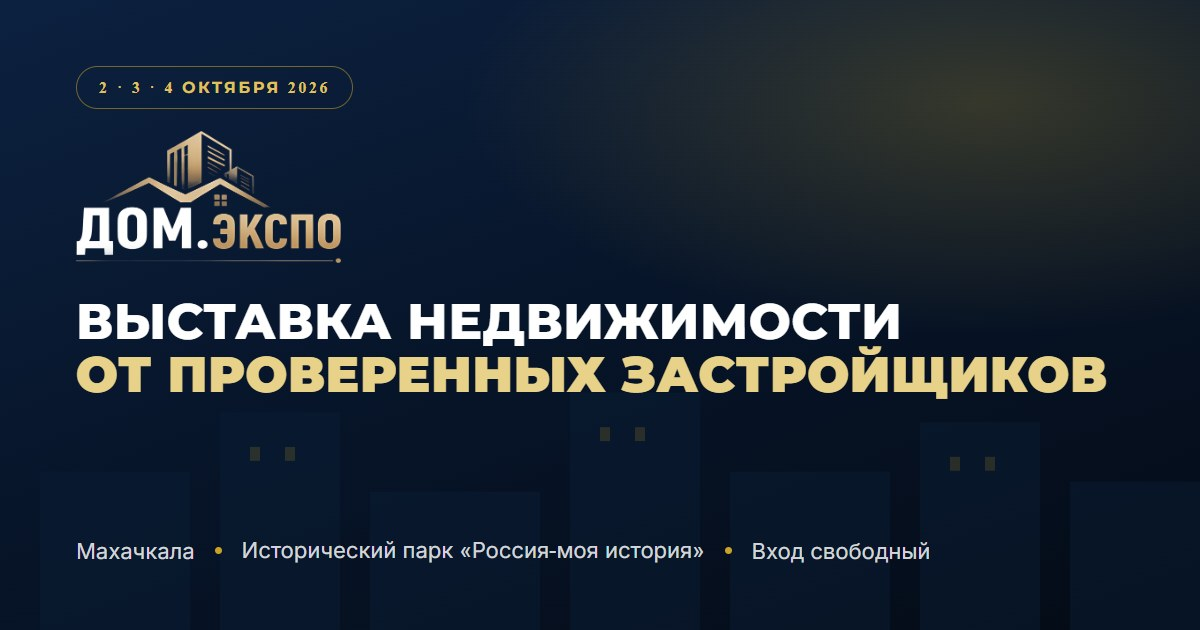
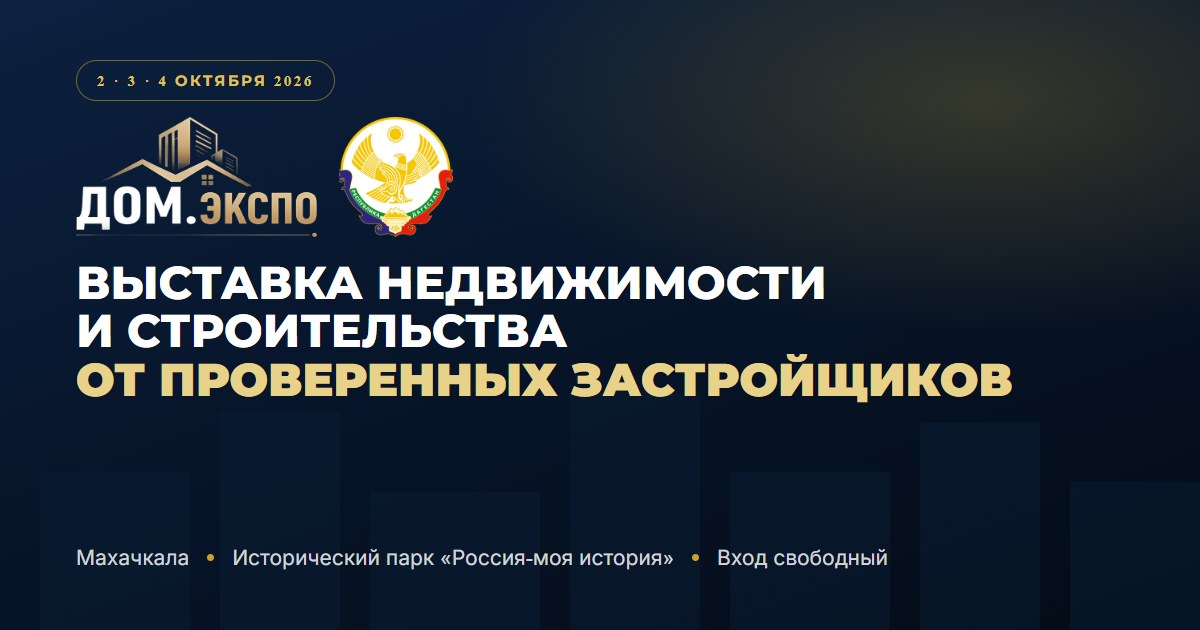
Правки клиента по голосовым: убрал билеты, добавил герб и «строительство»
Голосовое 1: вход свободный, билетов нет. Кнопки «Получить билет»
заменены на «Как добраться» (шапка, герой, плавающая), карточка билета
стала карточкой дат с «Построить маршрут», финальная секция без формы
регистрации, только маршрут. Убраны упоминания билета из шагов, FAQ,
схемы зала и юр-документов.

Голосовое 2: «в одном зале» -> «на одной площадке» везде; заголовок
«Выставка недвижимости» -> «Выставка недвижимости и строительства»
(+ title/description/og); под заголовком добавлен герб Дагестана
(вырезан с баннера) в плашку Минстроя. og-картинка перерисована.

diff --git a/index.html b/index.html
@@ -3,14 +3,14 @@
 <head>
 <meta charset="utf-8">
 <meta name="viewport" content="width=device-width, initial-scale=1">
-<title>ДОМ.ЭКСПО 2026 - выставка недвижимости в Махачкале, 2-4 октября</title>
-<meta name="description" content="Выставка новостроек от проверенных застройщиков Дагестана. 2, 3, 4 октября 2026, Исторический парк «Россия-моя история». Вход свободный, ипотечные консультации, спецусловия от застройщиков.">
+<title>ДОМ.ЭКСПО 2026 - выставка недвижимости и строительства в Махачкале, 2-4 октября</title>
+<meta name="description" content="Выставка недвижимости и строительства от проверенных застройщиков Дагестана. 2, 3, 4 октября 2026, Исторический парк «Россия-моя история». Вход свободный, ипотечные консультации, спецусловия от застройщиков.">
 <meta name="theme-color" content="#040B16">
 <link rel="icon" type="image/png" href="assets/logo/favicon.png">
 <link rel="apple-touch-icon" href="assets/logo/favicon.png">
 <meta property="og:type" content="website">
 <meta property="og:url" content="https://domexpo05.ru/">
-<meta property="og:title" content="ДОМ.ЭКСПО 2026 - выставка недвижимости в Махачкале">
+<meta property="og:title" content="ДОМ.ЭКСПО 2026 - выставка недвижимости и строительства в Махачкале">
 <meta property="og:description" content="2, 3, 4 октября 2026. Исторический парк «Россия-моя история», Махачкала. Вход свободный.">
 <meta property="og:image" content="assets/img/og.jpg">
 
@@ -136,7 +136,8 @@ h1,h2,h3,h4{font-family:var(--head);margin:0;letter-spacing:.01em}
 .hero-meta .hm-place{flex:1 1 100%;margin-top:2px}
 .dot{width:5px;height:5px;border-radius:50%;background:var(--gold-500);flex:0 0 auto}
 .hero-cta{display:flex;flex-wrap:wrap;gap:14px;margin:30px 0 0}
-.ministry{display:flex;align-items:center;gap:14px;margin:30px 0 0;padding:14px 20px;max-width:560px;background:rgba(10,24,40,.55);border:1px solid rgba(232,210,138,.18);border-left:3px solid var(--gold-500);border-radius:10px;font-size:12.5px;line-height:1.5;color:rgba(255,255,255,.7)}
+.ministry{display:flex;align-items:center;gap:16px;margin:30px 0 0;padding:14px 20px;max-width:580px;background:rgba(10,24,40,.55);border:1px solid rgba(232,210,138,.18);border-left:3px solid var(--gold-500);border-radius:10px;font-size:12.5px;line-height:1.5;color:rgba(255,255,255,.7)}
+.ministry-gerb{flex:0 0 auto;width:54px;height:auto;filter:drop-shadow(0 4px 10px rgba(0,0,0,.4))}
 .scroll-cue{position:absolute;right:calc(var(--pad) / 2);bottom:26px;z-index:3;display:flex;flex-direction:column;align-items:center;gap:8px;font-size:10.5px;letter-spacing:.22em;text-transform:uppercase;color:rgba(255,255,255,.42);writing-mode:vertical-rl}
 @media (max-width:1079px),(max-height:760px){.scroll-cue{display:none}}
 .scroll-cue i{width:1px;height:42px;background:linear-gradient(180deg,var(--gold-500),transparent);animation:cue 2s ease-in-out infinite}
@@ -503,7 +504,7 @@ dialog.doc::backdrop{background:rgba(4,11,22,.78);backdrop-filter:blur(6px)}
     </nav>
     <a href="tel:+79332091283" class="hdr-tel num">8 933 209 12 83</a>
     <button type="button" class="burger" id="burger" aria-label="Меню" aria-expanded="false" aria-controls="mnav"><span></span><span></span><span></span></button>
-    <a href="#ticket" class="btn btn-gold">Получить билет</a>
+    <a href="#venue" class="btn btn-gold">Как добраться</a>
   </div>
   <nav class="mnav" id="mnav">
     <a href="#about">О выставке</a>
@@ -532,24 +533,24 @@ dialog.doc::backdrop{background:rgba(4,11,22,.78);backdrop-filter:blur(6px)}
     <div class="hero-grid">
       <div class="hero-anim">
         <img class="hero-logo" src="assets/logo/logo.png" alt="ДОМ.ЭКСПО - выставка недвижимости" width="1200" height="598">
-        <h1 class="h1"><span>Выставка недвижимости</span><span class="l2">от проверенных застройщиков</span></h1>
-        <p class="hero-lead lead">Все застройщики Дагестана в одном зале. Три дня, чтобы выбрать квартиру без сотни звонков и поездок по офисам продаж.</p>
+        <h1 class="h1"><span>Выставка недвижимости и строительства</span><span class="l2">от проверенных застройщиков</span></h1>
+        <p class="hero-lead lead">Все застройщики Дагестана на одной площадке. Три дня, чтобы выбрать квартиру без сотни звонков и поездок по офисам продаж.</p>
         <div class="hero-meta">
           <b class="num">2, 3, 4 октября 2026</b><span class="dot"></span>
           <span>Махачкала</span>
           <span class="hm-place">Исторический парк «Россия-моя история», пр. Имама Шамиля, 31г</span>
         </div>
         <div class="hero-cta">
-          <a href="#ticket" class="btn btn-gold">Получить билет бесплатно</a>
+          <a href="#venue" class="btn btn-gold">Как добраться</a>
           <a href="#developers" class="btn btn-ghost">Стать участником</a>
         </div>
-        <div class="ministry">При поддержке Министерства строительства, архитектуры и жилищно-коммунального хозяйства Республики Дагестан</div>
+        <div class="ministry"><img class="ministry-gerb" src="assets/img/gerb.png" alt="Герб Республики Дагестан" width="571" height="600"><span>При поддержке Министерства строительства, архитектуры и жилищно-коммунального хозяйства Республики Дагестан</span></div>
       </div>
 
-      <aside class="tkt tkt-anim tilt" aria-label="Билет на выставку">
+      <aside class="tkt tkt-anim tilt" aria-label="Даты и место выставки">
         <div class="tkt-top">
           <div>
-            <div class="tkt-label">Пригласительный билет</div>
+            <div class="tkt-label">Даты выставки</div>
             <div class="tkt-date num">2<em>·</em>3<em>·</em>4</div>
             <div class="tkt-month">октября 2026</div>
           </div>
@@ -564,8 +565,8 @@ dialog.doc::backdrop{background:rgba(4,11,22,.78);backdrop-filter:blur(6px)}
           <div class="cd-box"><b data-cd="m">00</b><small>минут</small></div>
           <div class="cd-box"><b data-cd="s">00</b><small>секунд</small></div>
         </div>
-        <a href="#ticket" class="btn btn-gold">Забронировать билет</a>
-        <p class="tkt-fine">Билет бесплатный. Регистрация ускоряет проход.</p>
+        <a href="https://yandex.ru/maps/?text=Махачкала,%20проспект%20Имама%20Шамиля,%2031г" target="_blank" rel="noopener" class="btn btn-gold">Построить маршрут</a>
+        <p class="tkt-fine">Вход свободный для всех посетителей.</p>
       </aside>
     </div>
   </div>
@@ -603,8 +604,8 @@ dialog.doc::backdrop{background:rgba(4,11,22,.78);backdrop-filter:blur(6px)}
         <h2 class="h2">Зачем идти<br>на ДОМ.ЭКСПО</h2>
         <p class="lead" style="margin:24px 0 18px">Обычно выбор квартиры выглядит так: неделя обзвонов, десяток офисов продаж в разных концах города и ощущение, что везде говорят разное.</p>
         <p class="lead" style="margin:0 0 18px">На ДОМ.ЭКСПО застройщики приезжают к вам сами. За один визит вы сравниваете планировки и цены, задаёте неудобные вопросы про сроки сдачи и смотрите условия ипотеки от банков-партнёров.</p>
-        <div class="about-quote">Три дня, один зал, все ключевые застройщики республики</div>
-        <div style="margin-top:32px"><a href="#ticket" class="btn btn-gold">Получить билет бесплатно</a></div>
+        <div class="about-quote">Три дня, одна площадка, все ключевые застройщики республики</div>
+        <div style="margin-top:32px"><a href="#venue" class="btn btn-gold">Как добраться</a></div>
       </div>
       <div class="rv">
         <div class="frame"><span>Здесь встанет фото зала выставки: гости у макетов и планировок</span></div>
@@ -623,8 +624,8 @@ dialog.doc::backdrop{background:rgba(4,11,22,.78);backdrop-filter:blur(6px)}
     <div class="steps rv-stagger">
       <article class="step tilt">
         <div class="step-n">01</div>
-        <h3 class="h3">Получите билет</h3>
-        <p>Оставьте имя и телефон - пришлём билет и напомним за день до открытия. Бесплатно.</p>
+        <h3 class="h3">Просто приходите</h3>
+        <p>Вход свободный, билет и регистрация не нужны. Возьмите паспорт, если планируете подавать заявку на ипотеку.</p>
       </article>
       <article class="step tilt">
         <div class="step-n">02</div>
@@ -801,7 +802,7 @@ dialog.doc::backdrop{background:rgba(4,11,22,.78);backdrop-filter:blur(6px)}
 
           <g class="zone" data-zone="1">
             <rect x="300" y="418" width="200" height="72" rx="8" fill="rgba(201,162,39,.10)" stroke="rgba(201,162,39,.45)" stroke-width="1.5"/>
-            <text x="400" y="460" text-anchor="middle">Вход и регистрация</text>
+            <text x="400" y="460" text-anchor="middle">Вход на выставку</text>
           </g>
           <g class="zone" data-zone="2">
             <rect x="52" y="120" width="470" height="260" rx="8" fill="rgba(255,255,255,.045)" stroke="rgba(255,255,255,.16)" stroke-width="1.5"/>
@@ -835,7 +836,7 @@ dialog.doc::backdrop{background:rgba(4,11,22,.78);backdrop-filter:blur(6px)}
       </div>
 
       <ul class="legend" id="legend">
-        <li data-zone="1"><b>1</b><span>Вход и регистрация - быстрый проход по билету</span></li>
+        <li data-zone="1"><b>1</b><span>Вход на выставку - свободный, без билетов и очередей</span></li>
         <li data-zone="2"><b>2</b><span>Стенды застройщиков - макеты, планировки, цены</span></li>
         <li data-zone="3"><b>3</b><span>Лекторий - программа выступлений все три дня</span></li>
         <li data-zone="4"><b>4</b><span>Зона ипотеки - менеджеры банков-партнёров</span></li>
@@ -950,8 +951,8 @@ dialog.doc::backdrop{background:rgba(4,11,22,.78);backdrop-filter:blur(6px)}
       <h2 class="h2">Частые вопросы</h2>
     </div>
     <div class="faq rv-stagger">
-      <details><summary>Вход платный?<span class="plus"></span></summary><p>Нет, для посетителей вход свободный. Билет нужен, чтобы пройти быстрее и получить программу.</p></details>
-      <details><summary>Нужно ли регистрироваться заранее?<span class="plus"></span></summary><p>Не обязательно, но с регистрацией вы попадаете внутрь без очереди и получаете напоминание накануне.</p></details>
+      <details><summary>Вход платный?<span class="plus"></span></summary><p>Нет, для посетителей вход свободный все три дня, с 10:00 до 19:00.</p></details>
+      <details><summary>Нужно ли регистрироваться заранее?<span class="plus"></span></summary><p>Нет, регистрация и билет не нужны. Просто приходите в удобный день, вход свободный для всех.</p></details>
       <details><summary>Можно ли прийти с детьми?<span class="plus"></span></summary><p>Да, площадка подходит для семейного визита.</p></details>
       <details><summary>Можно ли оформить ипотеку прямо на выставке?<span class="plus"></span></summary><p>На стендах работают ипотечные менеджеры банков-партнёров: можно подать заявку и получить предварительное решение. Условия банков не являются публичной офертой.</p></details>
       <details><summary>Можно ли забронировать квартиру на выставке?<span class="plus"></span></summary><p>Да, у большинства застройщиков есть спецусловия бронирования для гостей выставки.</p></details>
@@ -966,28 +967,22 @@ dialog.doc::backdrop{background:rgba(4,11,22,.78);backdrop-filter:blur(6px)}
   <div class="wrap">
     <div class="final-in">
       <div class="rv">
-        <p class="eyebrow">Регистрация</p>
-        <h2 class="h2">Получите билет<br>на ДОМ.ЭКСПО</h2>
-        <p class="lead" style="margin:22px 0 0;max-width:480px">Вход свободный. Пришлём билет и напомним за день до открытия.</p>
-        <div class="final-when"><span class="num">2, 3, 4 октября 2026</span><span style="color:rgba(255,255,255,.3)">|</span><span>Махачкала, пр. Имама Шамиля, 31г</span></div>
+        <p class="eyebrow">Вход свободный</p>
+        <h2 class="h2">Приходите<br>на ДОМ.ЭКСПО</h2>
+        <p class="lead" style="margin:22px 0 0;max-width:480px">Билет и регистрация не нужны. Три дня, одна площадка, все застройщики Дагестана. Просто приходите в удобный день.</p>
+        <div class="final-when"><span class="num">2, 3, 4 октября 2026</span><span style="color:rgba(255,255,255,.3)">|</span><span>10:00 - 19:00</span></div>
       </div>
       <div class="card-form rv">
-        <div class="done hidden" id="tkDone">
-          <svg width="54" height="54" viewBox="0 0 52 52" fill="none" style="margin:0 auto"><circle cx="26" cy="26" r="24" stroke="#D4AF37" stroke-width="2"/><path d="m16 26.5 7 7 14-15" stroke="#D4AF37" stroke-width="2.4" stroke-linecap="round" stroke-linejoin="round"/></svg>
-          <h3>Готово</h3>
-          <p>Билет отправлен на ваш номер, ждём вас 2 октября.</p>
-        </div>
-        <form id="tkForm" novalidate>
-          <h3>Ваш билет</h3>
-          <p class="hint">Два поля - и вы в списке гостей</p>
-          <div class="fields">
-            <label class="field"><span>Имя</span><input type="text" name="name" placeholder="Как к вам обращаться" autocomplete="name"></label>
-            <label class="field"><span>Телефон</span><input type="tel" name="phone" inputmode="tel" class="num" placeholder="+7 (___) ___-__-__" autocomplete="tel"></label>
+        <div class="tkt-top" style="margin-bottom:20px">
+          <div>
+            <div class="tkt-label">Место проведения</div>
+            <h3 style="margin:10px 0 0">Россия - моя история</h3>
           </div>
-          <label class="consent"><input type="checkbox" name="consent"><span>Согласен на обработку персональных данных и с <a href="#legal" data-doc="privacy">политикой конфиденциальности</a></span></label>
-          <p class="err hidden" id="tkErr"></p>
-          <button type="submit" class="btn btn-gold">Получить билет</button>
-        </form>
+          <span class="tkt-free">Вход<br>свободный</span>
+        </div>
+        <p class="tkt-place" style="margin:0 0 22px">Исторический парк «Россия-моя история»<br>Махачкала, пр. Имама Шамиля, 31г<br><span class="num">Работа выставки 10:00 - 19:00</span></p>
+        <a href="https://yandex.ru/maps/?text=Махачкала,%20проспект%20Имама%20Шамиля,%2031г" target="_blank" rel="noopener" class="btn btn-gold" style="width:100%">Построить маршрут</a>
+        <p class="legal" style="margin-top:14px">Регистрация не требуется. Гостей выставки ждут спецусловия от застройщиков и бесплатные консультации.</p>
       </div>
     </div>
   </div>
@@ -1039,7 +1034,7 @@ dialog.doc::backdrop{background:rgba(4,11,22,.78);backdrop-filter:blur(6px)}
   </div>
 </footer>
 
-<div class="float" id="float"><a href="#ticket" class="btn btn-gold">Получить билет бесплатно</a></div>
+<div class="float" id="float"><a href="#venue" class="btn btn-gold">Как добраться</a></div>
 
 <button type="button" class="top-btn" id="topBtn" aria-label="Наверх">
   <svg width="18" height="18" viewBox="0 0 20 20" fill="none"><path d="M10 16V4m0 0-6 6m6-6 6 6" stroke="currentColor" stroke-width="2" stroke-linecap="round" stroke-linejoin="round"/></svg>
@@ -1062,7 +1057,7 @@ dialog.doc::backdrop{background:rgba(4,11,22,.78);backdrop-filter:blur(6px)}
     </ul>
     <h4>3. Зачем мы их обрабатываем</h4>
     <ul>
-      <li>отправить электронный билет и напоминание о датах выставки;</li>
+      <li>проинформировать о датах, программе и изменениях в работе выставки;</li>
       <li>связаться по заявке на участие в выставке;</li>
       <li>ответить на обращение;</li>
       <li>улучшать работу Сайта на основе обезличенной статистики.</li>
@@ -1090,7 +1085,7 @@ dialog.doc::backdrop{background:rgba(4,11,22,.78);backdrop-filter:blur(6px)}
     <h4>Перечень действий</h4>
     <p>Сбор, запись, систематизация, накопление, хранение, уточнение (обновление, изменение), извлечение, использование, передача (предоставление, доступ), обезличивание, блокирование, удаление, уничтожение - с использованием средств автоматизации и без них.</p>
     <h4>Цели обработки</h4>
-    <p>Регистрация на выставку и выдача электронного билета, информирование о датах, программе и изменениях в работе выставки, обработка заявки на участие, ответ на обращение.</p>
+    <p>Информирование о датах, программе и изменениях в работе выставки, обработка заявки на участие, ответ на обращение.</p>
     <h4>Срок действия и отзыв</h4>
     <p>Согласие действует до достижения целей обработки либо до его отзыва. Отозвать согласие можно письменным обращением на domexpo05@mail.ru. После отзыва Организатор прекращает обработку и уничтожает данные в срок, не превышающий 30 календарных дней, если иное не предусмотрено законом.</p>
     <h4>Согласие на информационные сообщения</h4>
@@ -1107,7 +1102,7 @@ dialog.doc::backdrop{background:rgba(4,11,22,.78);backdrop-filter:blur(6px)}
     <h4>Вход</h4>
     <ul>
       <li>вход для посетителей свободный, плата не взимается;</li>
-      <li>электронный билет не обязателен, но ускоряет проход и даёт напоминание о датах;</li>
+      <li>вход свободный, билет и предварительная регистрация не требуются;</li>
       <li>дети допускаются в сопровождении взрослых;</li>
       <li>при подаче заявки на ипотеку понадобится паспорт.</li>
     </ul>
@@ -1253,20 +1248,6 @@ dialog.doc::backdrop{background:rgba(4,11,22,.78);backdrop-filter:blur(6px)}
   function phoneOk(v){ return String(v || '').replace(/\D/g, '').length === 11; }
   function showErr(box, msg){ box.textContent = msg; box.classList.remove('hidden'); }
   function hideErr(box){ box.classList.add('hidden'); }
-
-  /* ── форма билета ── */
-  var tkForm = document.getElementById('tkForm'), tkErr = document.getElementById('tkErr'), tkDone = document.getElementById('tkDone');
-  tkForm.addEventListener('submit', function(e){
-    e.preventDefault();
-    var f = tkForm.elements;
-    if (!f.name.value.trim())     return showErr(tkErr, 'Укажите имя, чтобы мы знали, к кому обращаться.');
-    if (!phoneOk(f.phone.value))  return showErr(tkErr, 'Введите телефон полностью: +7 (___) ___-__-__');
-    if (!f.consent.checked)       return showErr(tkErr, 'Нужно согласие на обработку персональных данных.');
-    hideErr(tkErr);
-    // Бэкенда пока нет: сюда встанет отправка на сервер или в Telegram-бот
-    console.log('[ДОМ.ЭКСПО] заявка на билет', { name: f.name.value, phone: f.phone.value });
-    tkForm.classList.add('hidden'); tkDone.classList.remove('hidden');
-  });
 
   /* ── форма застройщика ── */
   var devForm = document.getElementById('devForm'), devErr = document.getElementById('devErr'), devDone = document.getElementById('devDone');
